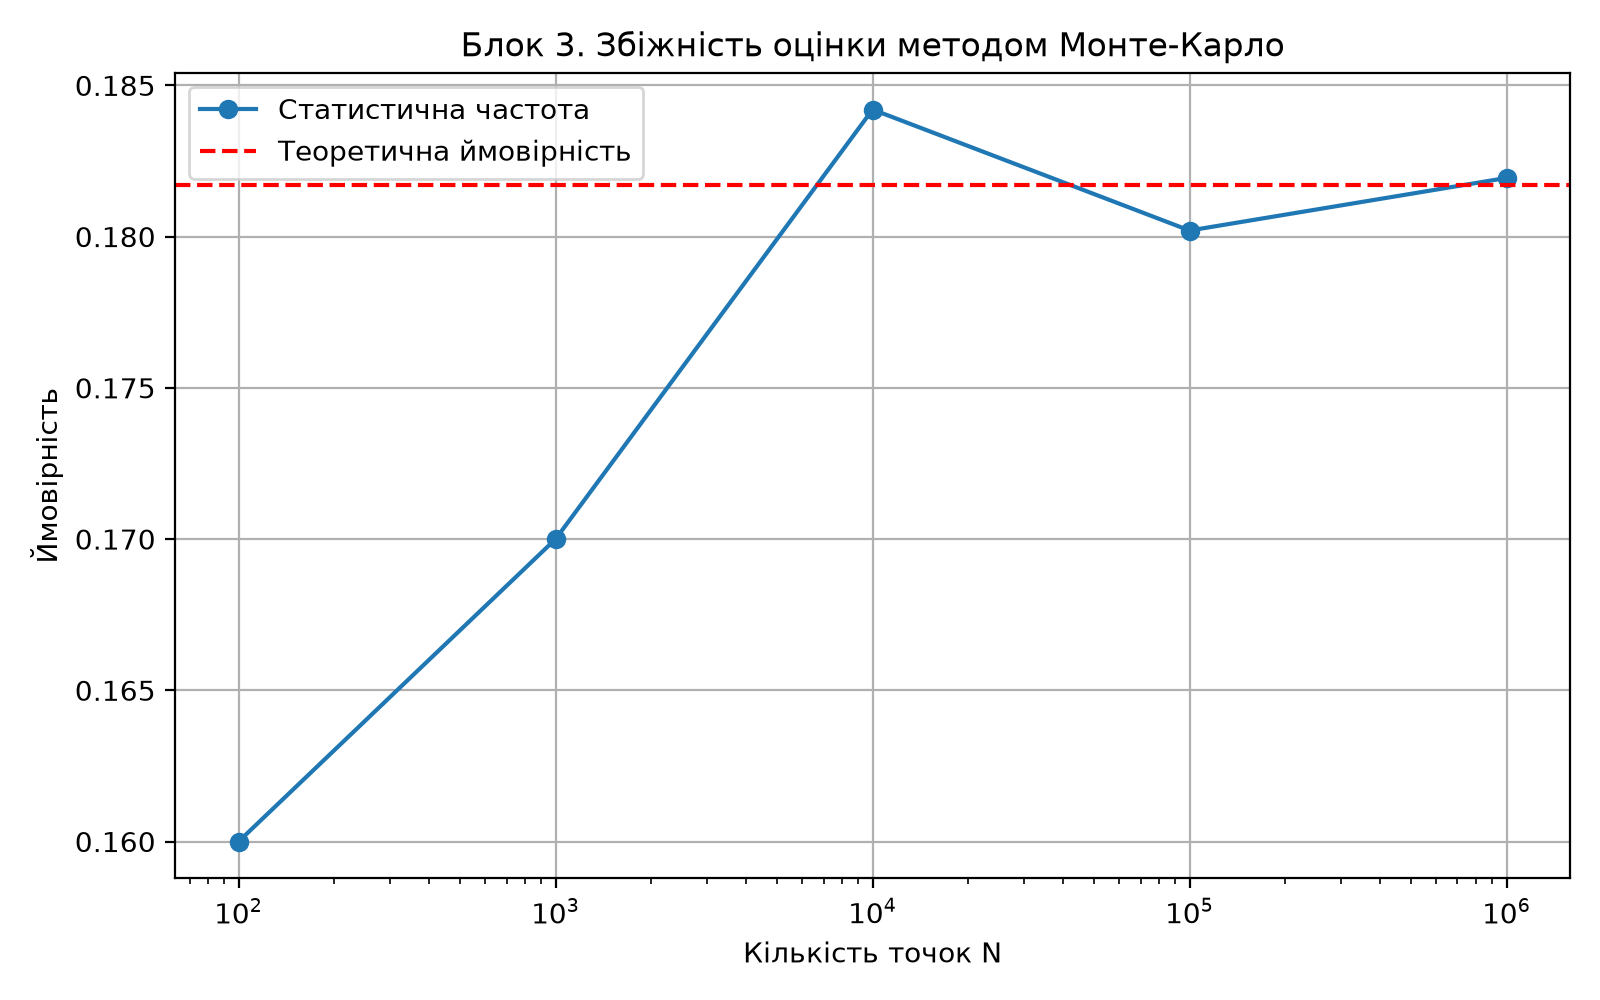
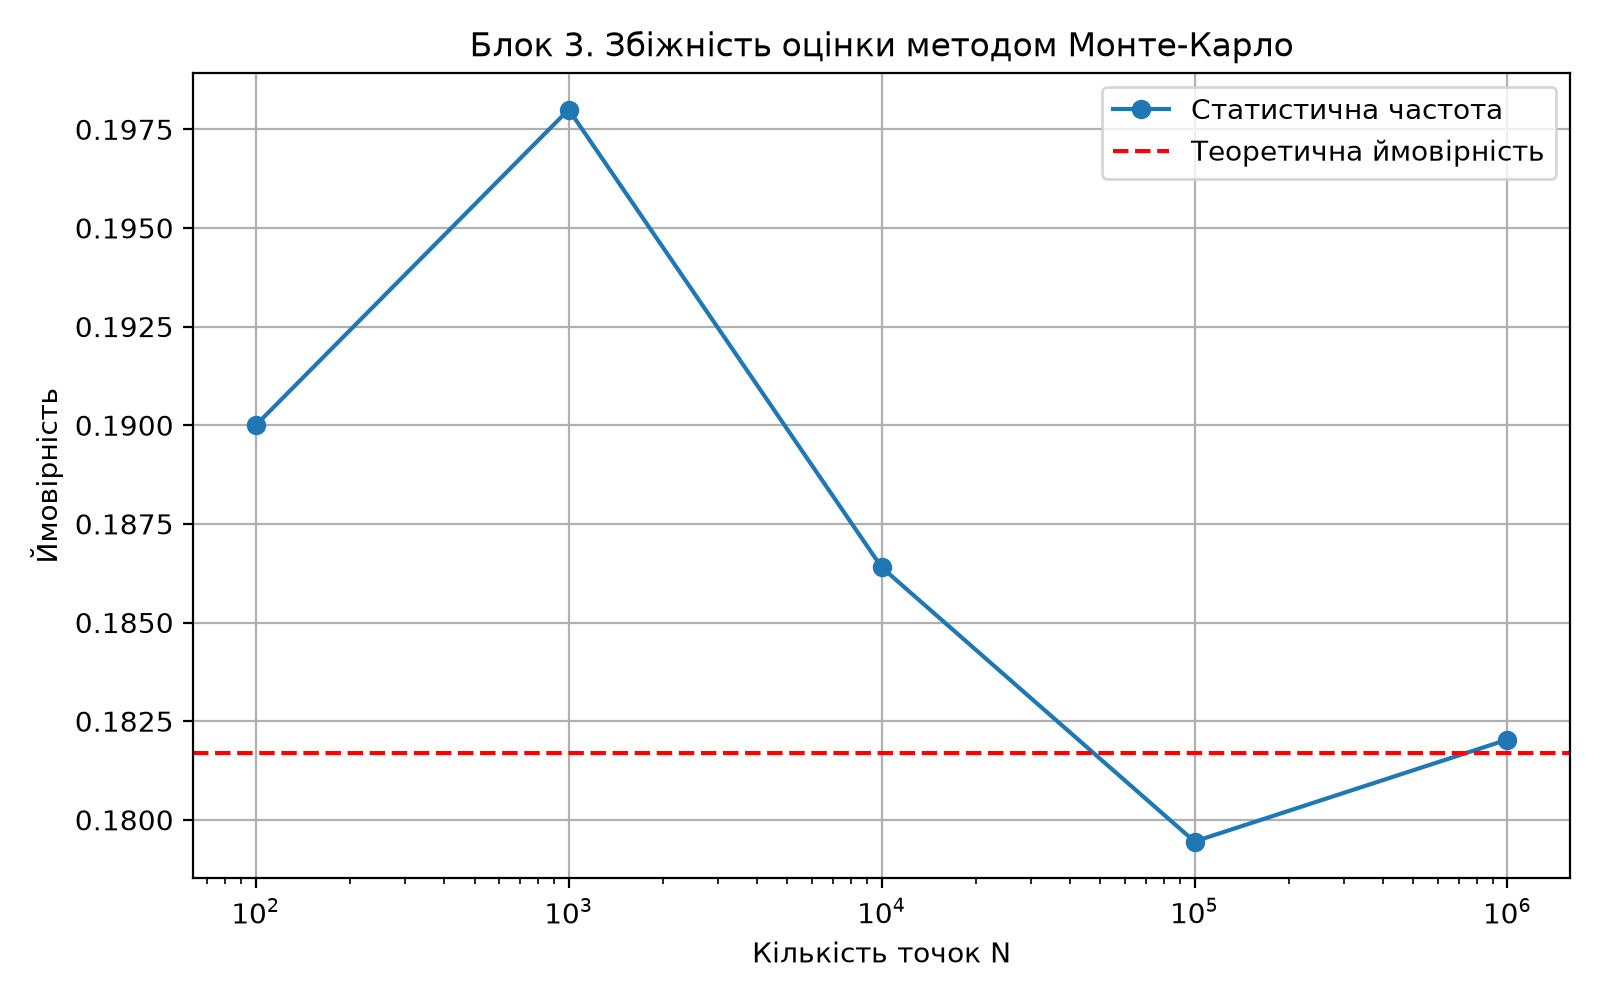
docs: add README and verified experiment results

diff --git a/README.md b/README.md
@@ -1,0 +1,45 @@
+# Практична робота № 3–4
+
+Тема: «Комбінаторні моделі та розрахунок ймовірностей у програмних системах».
+
+Студент: Римаренко Євгеній Олександрович.
+Група: ІВ-25-1.
+Університет: Державний університет «Житомирська політехніка».
+Варіант: 1.
+
+## Залежності
+
+Python 3.10 або новіший, matplotlib.
+Перевірено на Python 3.14.7.
+
+Установлення бібліотеки:
+
+```powershell
+python -m pip install matplotlib
+```
+
+## Запуск
+
+Виконувати з основної папки проєкту:
+
+```powershell
+python main.py
+python block2.py
+python block3.py
+python block4.py
+```
+
+Кожна команда запускає окремий блок.
+
+## Зміст
+
+- main.py — блок 1: колізії, 365 можливих значень, по 10 000 експериментів для кожного k.
+- block2.py — блок 2: паролі без повторення символів, 100 000 експериментів.
+- block3.py — блок 3: геометрична ймовірність, від 100 до 1 000 000 точок.
+- block4.py — блок 4: покриття конфігурацій набором із 9 сценаріїв, 10 000 експериментів.
+
+Результати виводяться в термінал.
+Блок 3 зберігає графік у graphics/block3_convergence.png.
+Для завершення блоку 3 потрібно закрити вікно графіка.
+
+Через випадкову генерацію результати різних запусків можуть відрізнятися.
